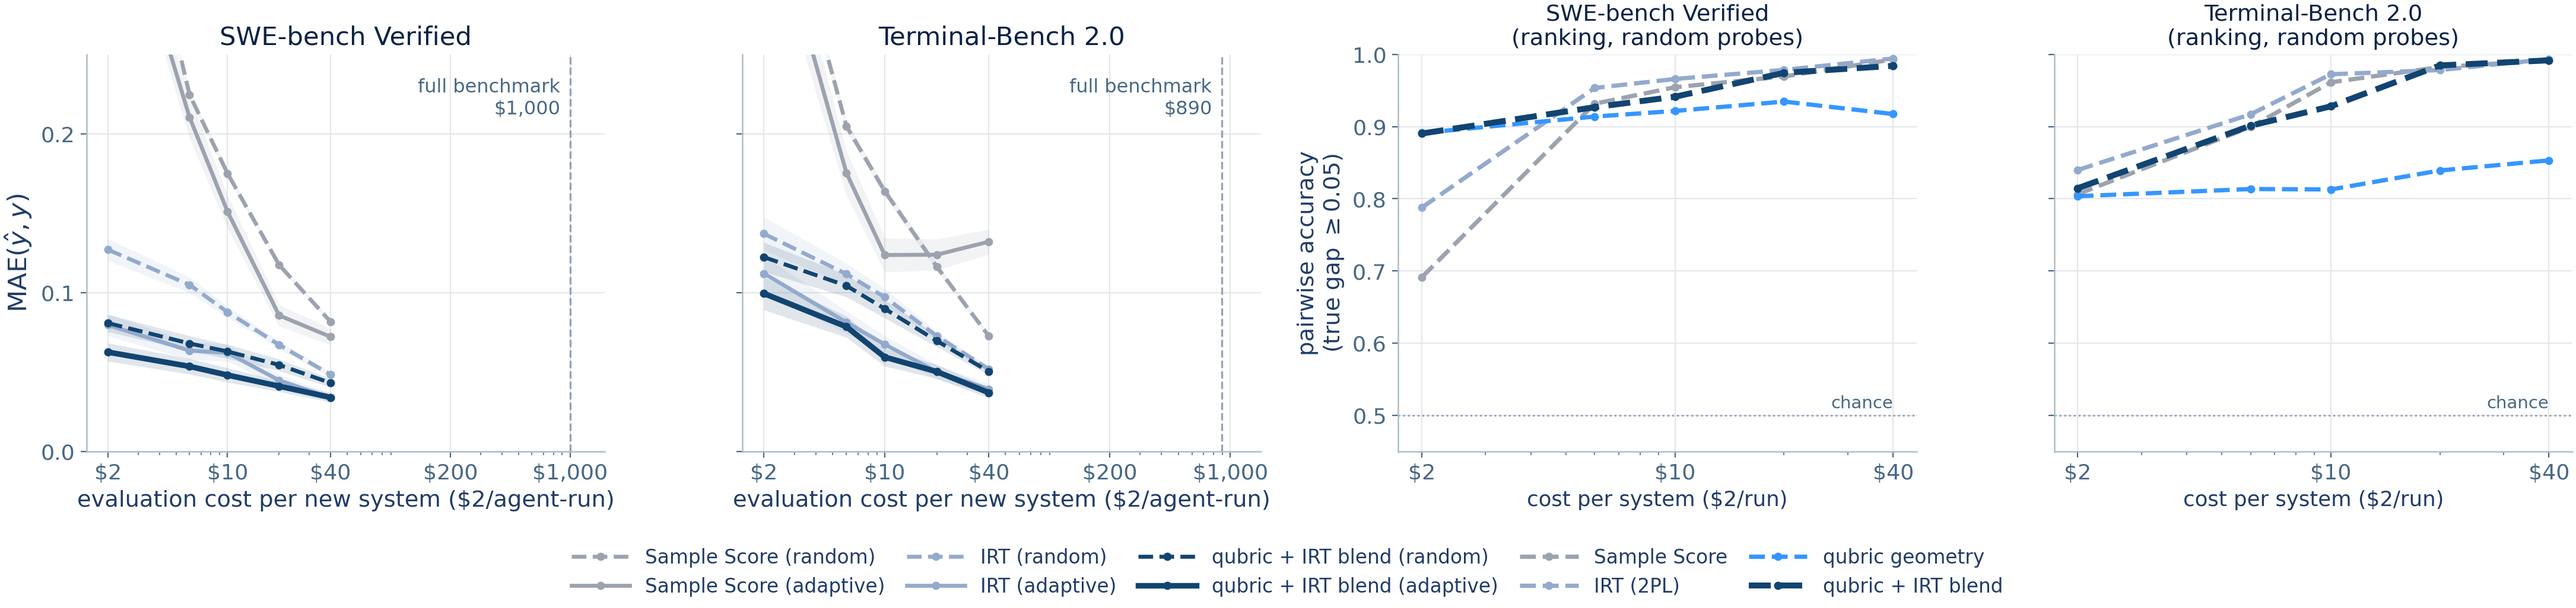
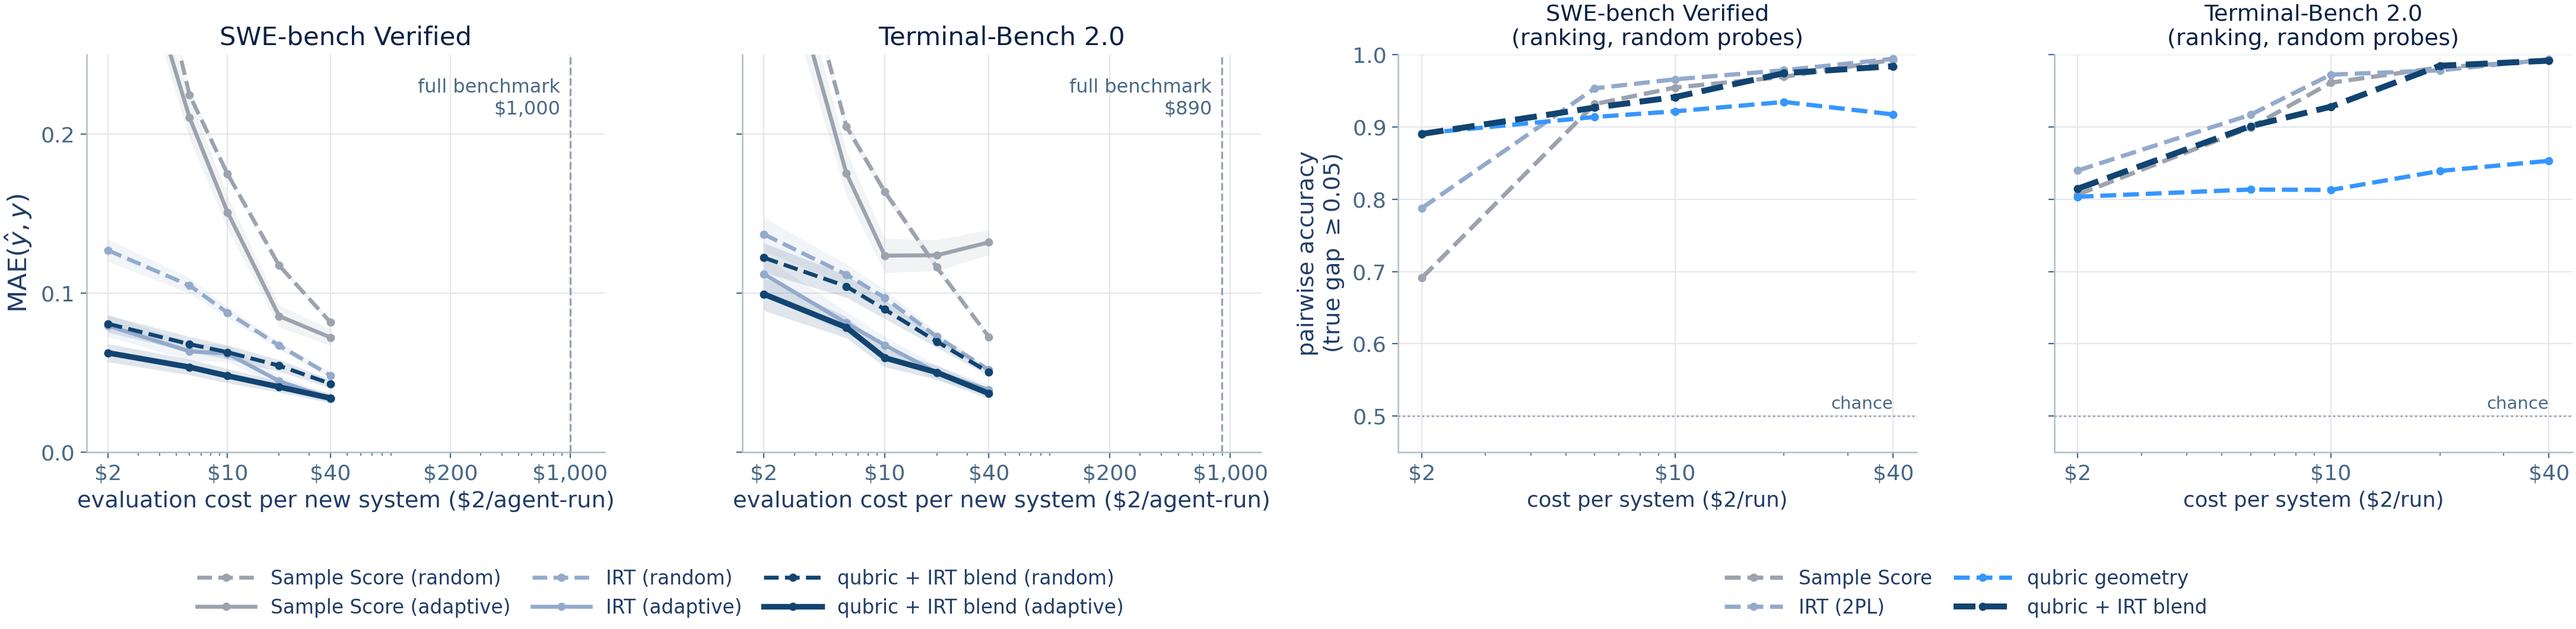
cost figure: split legends per panel pair
Claude-Session: https://claude.ai/code/session_01RGusFFXzoPTkSKgzzDLjNv

diff --git a/scripts/fig_cost.py b/scripts/fig_cost.py
@@ -121,15 +121,15 @@ def main():
                        fontsize=SZ['subtitle'])
     axes[3].set_yticklabels([])
 
+    # split legends: MAE series under panels 1-2, ranking series under 3-4
     h1, l1 = axes[0].get_legend_handles_labels()
     h2, l2 = axes[2].get_legend_handles_labels()
-    seen = {}
-    for h, l in zip(h1 + h2, l1 + l2):
-        if l not in seen:
-            seen[l] = h
-    fig.legend(seen.values(), seen.keys(), fontsize=SZ['legend'] - 2,
-               handlelength=3.0, loc='lower center',
-               bbox_to_anchor=(0.5, -0.09), ncol=5, columnspacing=1.1)
+    fig.legend(h1, l1, fontsize=SZ['legend'] - 2, handlelength=3.0,
+               loc='upper center', bbox_to_anchor=(0.26, 0.02), ncol=3,
+               columnspacing=1.1, frameon=False)
+    fig.legend(h2, l2, fontsize=SZ['legend'] - 2, handlelength=3.0,
+               loc='upper center', bbox_to_anchor=(0.76, 0.02), ncol=2,
+               columnspacing=1.1, frameon=False)
     fig.tight_layout(rect=(0, 0.05, 1, 1))
     fig.savefig('figures/fig_cost.png', dpi=200, bbox_inches='tight',
                 pad_inches=0.03)
